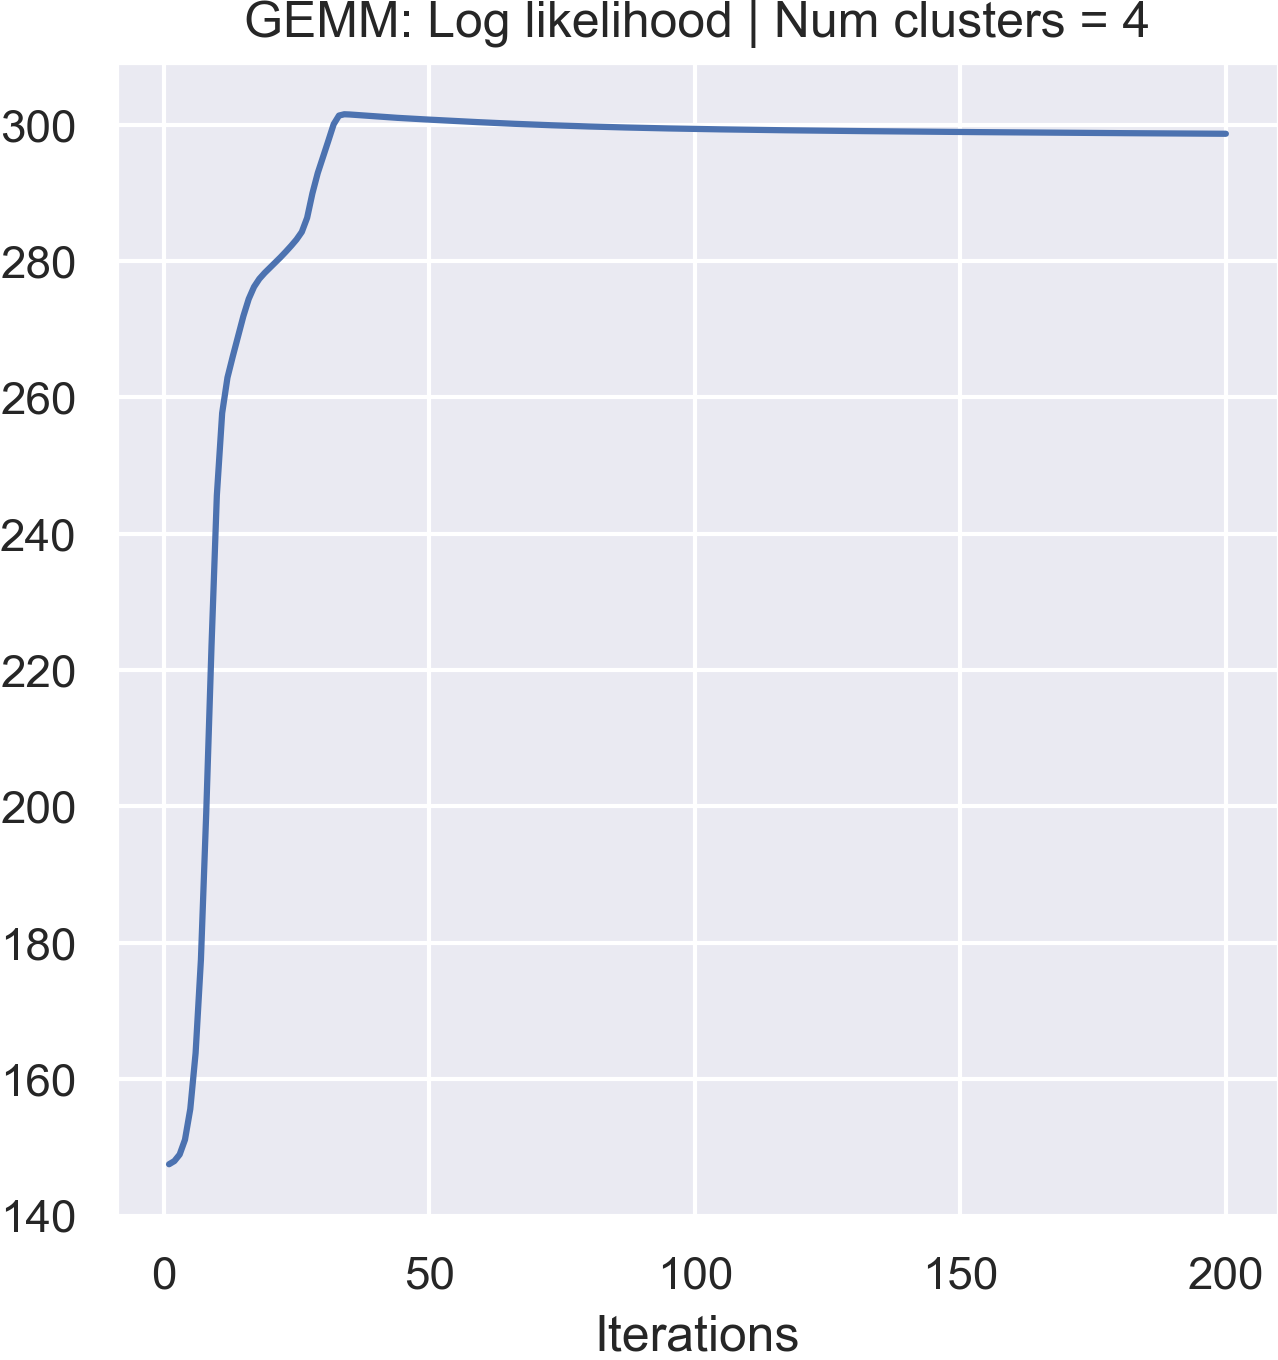
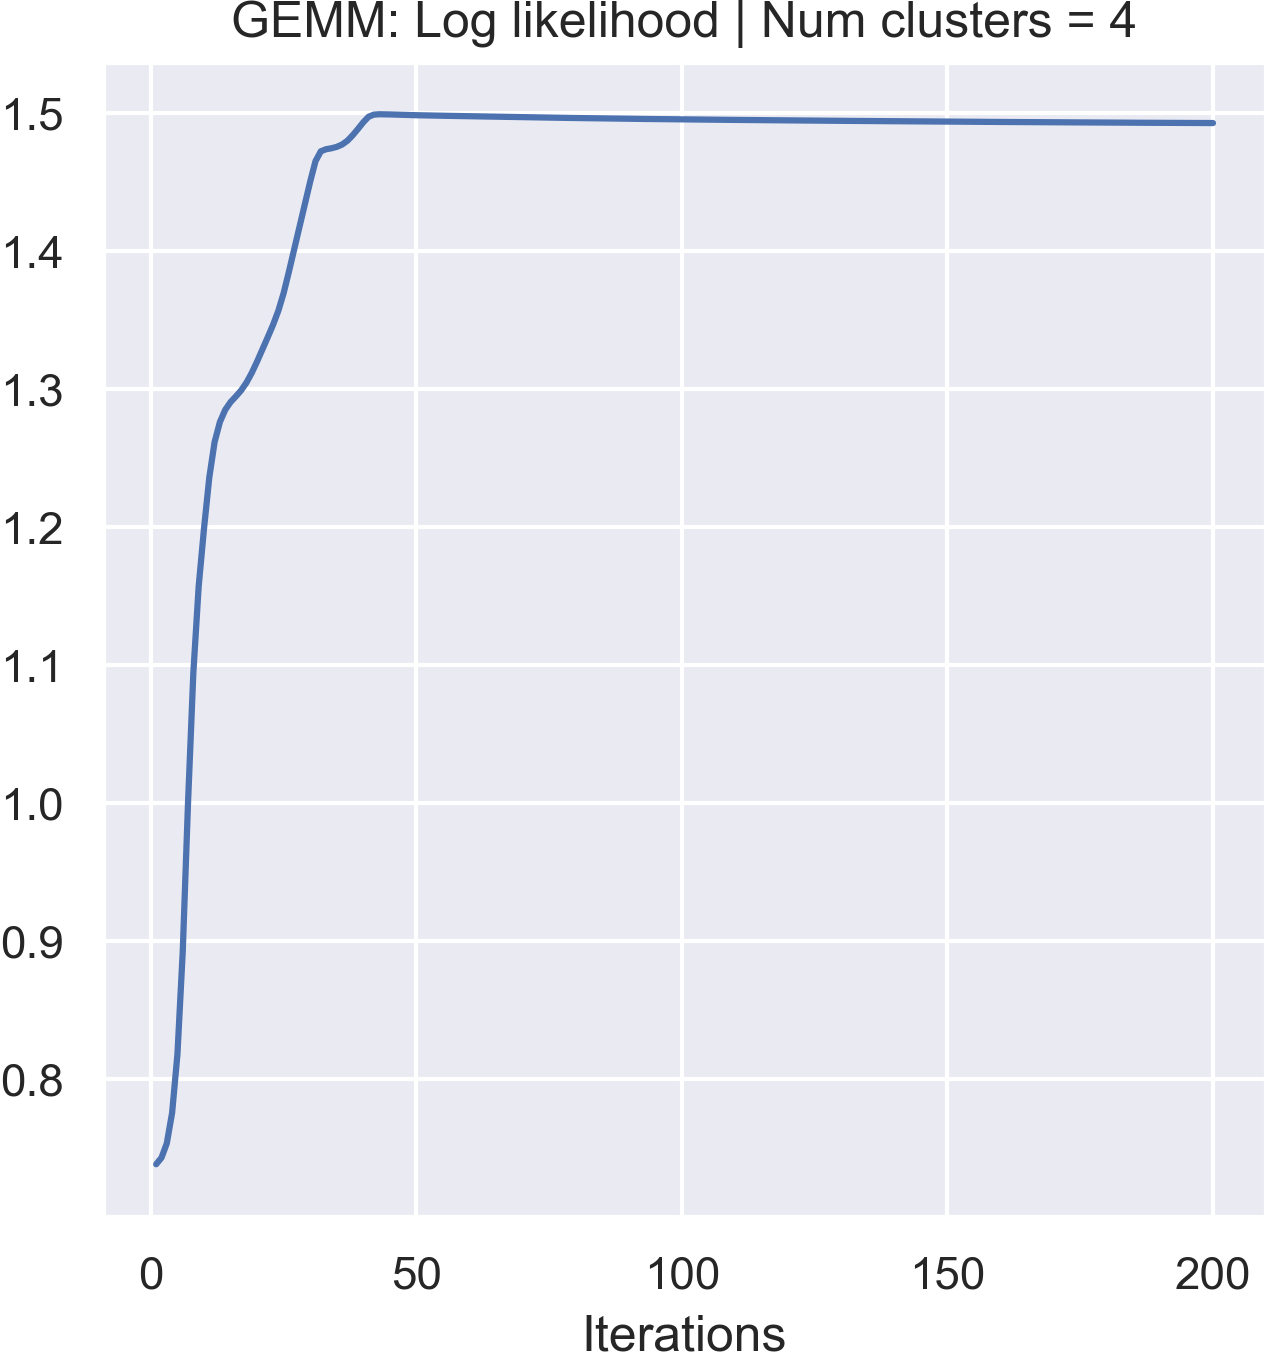
Remove the gender from the dataset

diff --git a/midterm_takehome/gemm_scratch/gemm.py b/midterm_takehome/gemm_scratch/gemm.py
@@ -4,7 +4,6 @@ import matplotlib.pyplot as plt
 import seaborn as sns; sns.set()
 
 from gmm import *
-from sklearn.decomposition import PCA
 
 # Set debug mode
 DEBUG = True
@@ -16,24 +15,14 @@ args = parser.parse_args()
 
 def main():
     # Load data
-    Y = np.load('./data/customer_data_minmax_scale.npy', allow_pickle=True)
+    Y = np.load("./data/customer_data_original.npy", allow_pickle=True)
     matY = np.matrix(Y, copy=True)
 
     # The number of models
     K = args.clusters
 
     if K not in [4, 6, 8, 10]:
-        raise ValueError("Number of clusters must be 4, 6, 8, or 10!")
-
-    pca = PCA(n_components=2)
-    principleComp = pca.fit_transform(Y)
-    
-    # visualize the transformed data:
-    plt.figure(figsize=(8,8), dpi=300)
-    sns.scatterplot(principleComp[:, 0], principleComp[:, 1])
-    plt.title('Before clustering')
-    plt.savefig('./figs/pca_process_gemm.png', bbox_inches = 'tight', pad_inches = 0)
-    plt.close()
+        raise ValueError("Number of clusters must be 3, 5, or 7!")
     
     # Calculate the Gmm models parameters 
     num_iter = 200
@@ -49,20 +38,18 @@ def main():
     category = gamma.argmax(axis=1).flatten().tolist()[0]
     # Put each sample in the corresponding category list
 
-    marker = ['s', 'o', 'v', '^', 'x', 'D', 'P', 'X', 'h', '+']
+    marker = ['rs', 'bo', 'gv', 'kp', 'yh', 'c<', 'm>']
     plt.figure(figsize=(8,8), dpi=300)
     for kk in range(K):
-        cluster = np.array([principleComp[i] for i in range(N) if category[i] == kk])
+        cluster = np.array([Y[i] for i in range(N) if category[i] == kk])
         plt.plot(cluster[:, 0], cluster[:, 1], marker[kk], label=f"class{kk+1}")
-
-
 
     plt.legend(loc="best")
     plt.title("GMM Clustering By EM Algorithm")
     plt.savefig(f'./figs/gemm_cluster_{K}.png')
 
     plt.figure(figsize=(5,5), dpi=300)
-    plt.plot(np.arange(1, num_iter+1, 1), log_likelihood.sum(axis=1))
+    plt.plot(np.arange(1, num_iter+1, 1), log_likelihood.mean(axis=1))
     
     plt.title(f'GEMM: Log likelihood | Num clusters = {K}')
     plt.xlabel('Iterations')

diff --git a/midterm_takehome/kmeans.py b/midterm_takehome/kmeans.py
@@ -71,7 +71,7 @@ class k_means():
         return est_centorid, old_centroids, classify, loss, num_iter
 
 
-def plotting(predict_labels, data, num_clusters):
+def plotting(predict_labels, data, num_clusters, centroids):
     color = ['lightgreen', 'orange', 'lightblue', 'steelblue', 'red', 'blueviolet', 'aqua', 'g', 'tan', 'darkcyan', 'darkblue']
     markers = ['s', 'o', 'v', '^', 'x', 'D', 'P', 'X', 'h', '+']
 
@@ -85,9 +85,19 @@ def plotting(predict_labels, data, num_clusters):
             label=f'cluster {ii+1}'
         )
 
+        plt.scatter(
+            centroids[ii, 0],
+            centroids[ii, 1],
+            marker='X',
+            s=100,
+            c=color[ii],
+            label=f'centroid {ii+1}'
+        )
+
     plt.title(f'Kmeans: after clustering | Number of clusters={args.clusters}')
     plt.legend(loc='best')
-    plt.savefig(f'./figs/kmeans_cluster_{num_clusters}.png', bbox_inches = 'tight', pad_inches = 0)
+    plt.savefig(f'./figs/kmeans_cluster_{num_clusters}_genderFalse.png', bbox_inches = 'tight', pad_inches = 0)
+
             
 def main():
     clusters = args.clusters
@@ -95,8 +105,9 @@ def main():
         raise ValueError("Number of clusters must be 4, 6, 8, or 10!")
 
     # Load the data samples and the corresponding labels
-    samples = np.load('./data/customer_data_minmax_scale.npy', allow_pickle=True)
+    samples = np.load('./data/customer_data_original_genderFalse.npy', allow_pickle=True)
 
+    # print(f"Empty data: {samples.isnull().any().any()}")
     print(f'Size of the data samples: {samples.shape}')
 
     # data preprocessing: PCA
@@ -117,8 +128,11 @@ def main():
     km = k_means(num_clusters=clusters, tol=1e-4)
     est_centroid, history_centroids, predict_labels, loss, num_iter = km.get_cluster(samples)
     
+    centroid_pca = pca.fit_transform(est_centroid)
+
+    print(est_centroid)
     # plotting:
-    plotting(predict_labels, principleComp, clusters)
+    plotting(predict_labels, principleComp, clusters, centroid_pca)
 
     # losses
     plt.figure(figsize=(8,8), dpi=300)

diff --git a/midterm_takehome/gemm_sklearn.py b/midterm_takehome/gemm_sklearn.py
@@ -1,0 +1,63 @@
+"""
+"""
+
+import argparse
+import numpy as np
+import matplotlib.pyplot as plt
+import seaborn as sns; sns.set()
+
+from sklearn.mixture import GaussianMixture
+from sklearn.decomposition import PCA
+
+
+parser = argparse.ArgumentParser(description='GEMM clustering')
+# parameters
+parser.add_argument('--clusters', type=int, default=4, help='number of clusters')
+args = parser.parse_args()
+
+
+def plotting(predict_labels, data, num_clusters):
+    color = ['lightgreen', 'orange', 'lightblue', 'steelblue', 'red', 'blueviolet', 'aqua', 'g', 'tan', 'darkcyan', 'darkblue']
+    markers = ['s', 'o', 'v', '^', 'x', 'D', 'P', 'X', 'h', '+']
+
+    plt.figure(figsize=(8,8), dpi=300)
+
+    for ii in range(num_clusters):
+        plt.scatter(
+            data[predict_labels == ii, 0], data[predict_labels == ii, 1],
+            s=50, c=color[ii],
+            marker=markers[ii], edgecolor='black',
+            label=f'cluster {ii+1}'
+        )
+
+    plt.title(f'GMM: after clustering | Number of clusters=4')
+    plt.legend(loc='best')
+    plt.savefig(f'./figs/gemm_sklearn_cluster_{num_clusters}_genderFalse.png', bbox_inches = 'tight', pad_inches = 0)
+
+def main():
+    K = args.clusters
+
+    if K not in [4, 6, 8, 10]:
+        raise ValueError("Number of clusters must be 4, 6, 8, or 10!")
+
+    X = np.load("./data/customer_data_original_genderFalse.npy", allow_pickle=True)
+
+    # print(f"Empty data: {X.isnull().any().any()}")
+
+    pca = PCA(n_components=2)
+    principleComp = pca.fit_transform(X)
+
+    gmm = GaussianMixture(n_components=K)
+
+    gmm_x = gmm.fit(X)
+
+    labels = gmm_x.predict(X)
+
+    plotting(labels, principleComp, K)
+
+    print(f'GMM: Converged = {gmm_x.converged_} | num_iter = {gmm_x.n_iter_}')
+
+
+
+if __name__ == '__main__':
+    main()

diff --git a/midterm_takehome/data/read_data.py b/midterm_takehome/data/read_data.py
@@ -6,26 +6,27 @@ Fetch the data from .csv file to numpy array
 
 import numpy as np
 import pandas as pd
-from sklearn.preprocessing import StandardScaler, MinMaxScaler
+import matplotlib.pyplot as plt
+import seaborn as sns; sns.set()
 
 
 def main():
     data_path = './Mall_Customers.csv'
-    attr = ['Gender', 'Age', 'Annual Income (k$)', 'Spending Score (1-100)']
+    attr = ['Age', 'Annual Income (k$)', 'Spending Score (1-100)']
 
     df = pd.read_csv(data_path, usecols=attr)
 
 
     data = df.to_numpy()
-    gender = data[:, 0]
+    # gender = data[:, 0]
 
-    gender[gender=='Male'] = 5.
-    gender[gender=='Female'] = 10.
-    data[:,0] = gender
-    
-    data = MinMaxScaler().fit_transform(data)
+    # gender[gender=='Male'] = 5.
+    # gender[gender=='Female'] = 10.
+    # data[:,0] = gender
 
-    np.save('./customer_data_minmax_scale.npy', data)
+    # data = MinMaxScaler().fit_transform(data)
+
+    np.save('./customer_data_original_genderFalse.npy', data)
 
 if __name__ == '__main__':
     main()

diff --git a/midterm_takehome/data/data_visualize.py b/midterm_takehome/data/data_visualize.py
@@ -1,0 +1,26 @@
+import numpy as np
+import pandas as pd
+import matplotlib.pyplot as plt
+import seaborn as sns; sns.set()
+
+
+def main():
+    data_path = './Mall_Customers.csv'
+    attr = ['CustomerID', 'Gender', 'Age', 'Annual Income (k$)', 'Spending Score (1-100)']
+
+    df = pd.read_csv(data_path, usecols=attr)
+
+
+    data = df.to_numpy()
+    gender = data[:, 0]
+
+    gender[gender=='Male'] = 5.
+    gender[gender=='Female'] = 10.
+    data[:,0] = gender
+    
+    X = df.drop(['CustomerID', 'Gender'], axis=1)
+    sns.pairplot(df.drop('CustomerID', axis=1), hue='Gender', aspect=1.5)
+    plt.savefig('../figs/data_visualize.png', dpi=300)
+
+if __name__ == '__main__':
+    main()

diff --git a/midterm_takehome/kmeans_two_features.py b/midterm_takehome/kmeans_two_features.py
@@ -54,10 +54,20 @@ def main():
     df = pd.read_csv(data_path)
     data = df[[f1, f2]].iloc[: , :].to_numpy()
 
+
+    if f1 == 'Gender':
+        gender = data[:, 0]
+
+        gender[gender=='Male'] = 5.
+        gender[gender=='Female'] = 10.
+        print(gender)
+        data[:,0] = gender
+
     print(f'Shape of the data: {data.shape}')
 
     km = k_means(num_clusters=clusters, tol=1e-4)
     est_centroid, history_centroids, predict_labels, loss, num_iter = km.get_cluster(data)
+
 
     plotting(predict_labels, data, clusters, est_centroid, f1, f2)
 

diff --git a/midterm_takehome/gemm_scratch/gmm.py b/midterm_takehome/gemm_scratch/gmm.py
@@ -123,7 +123,7 @@ def init_params(shape, K):
 # times is the number of iterations
 ######################################################
 def GMM_EM(Y, K, times):
-    # Y = scale_data(Y)
+    Y = scale_data(Y)
     mu, cov, alpha = init_params(Y.shape, K)
     log_likelihood = []
     
